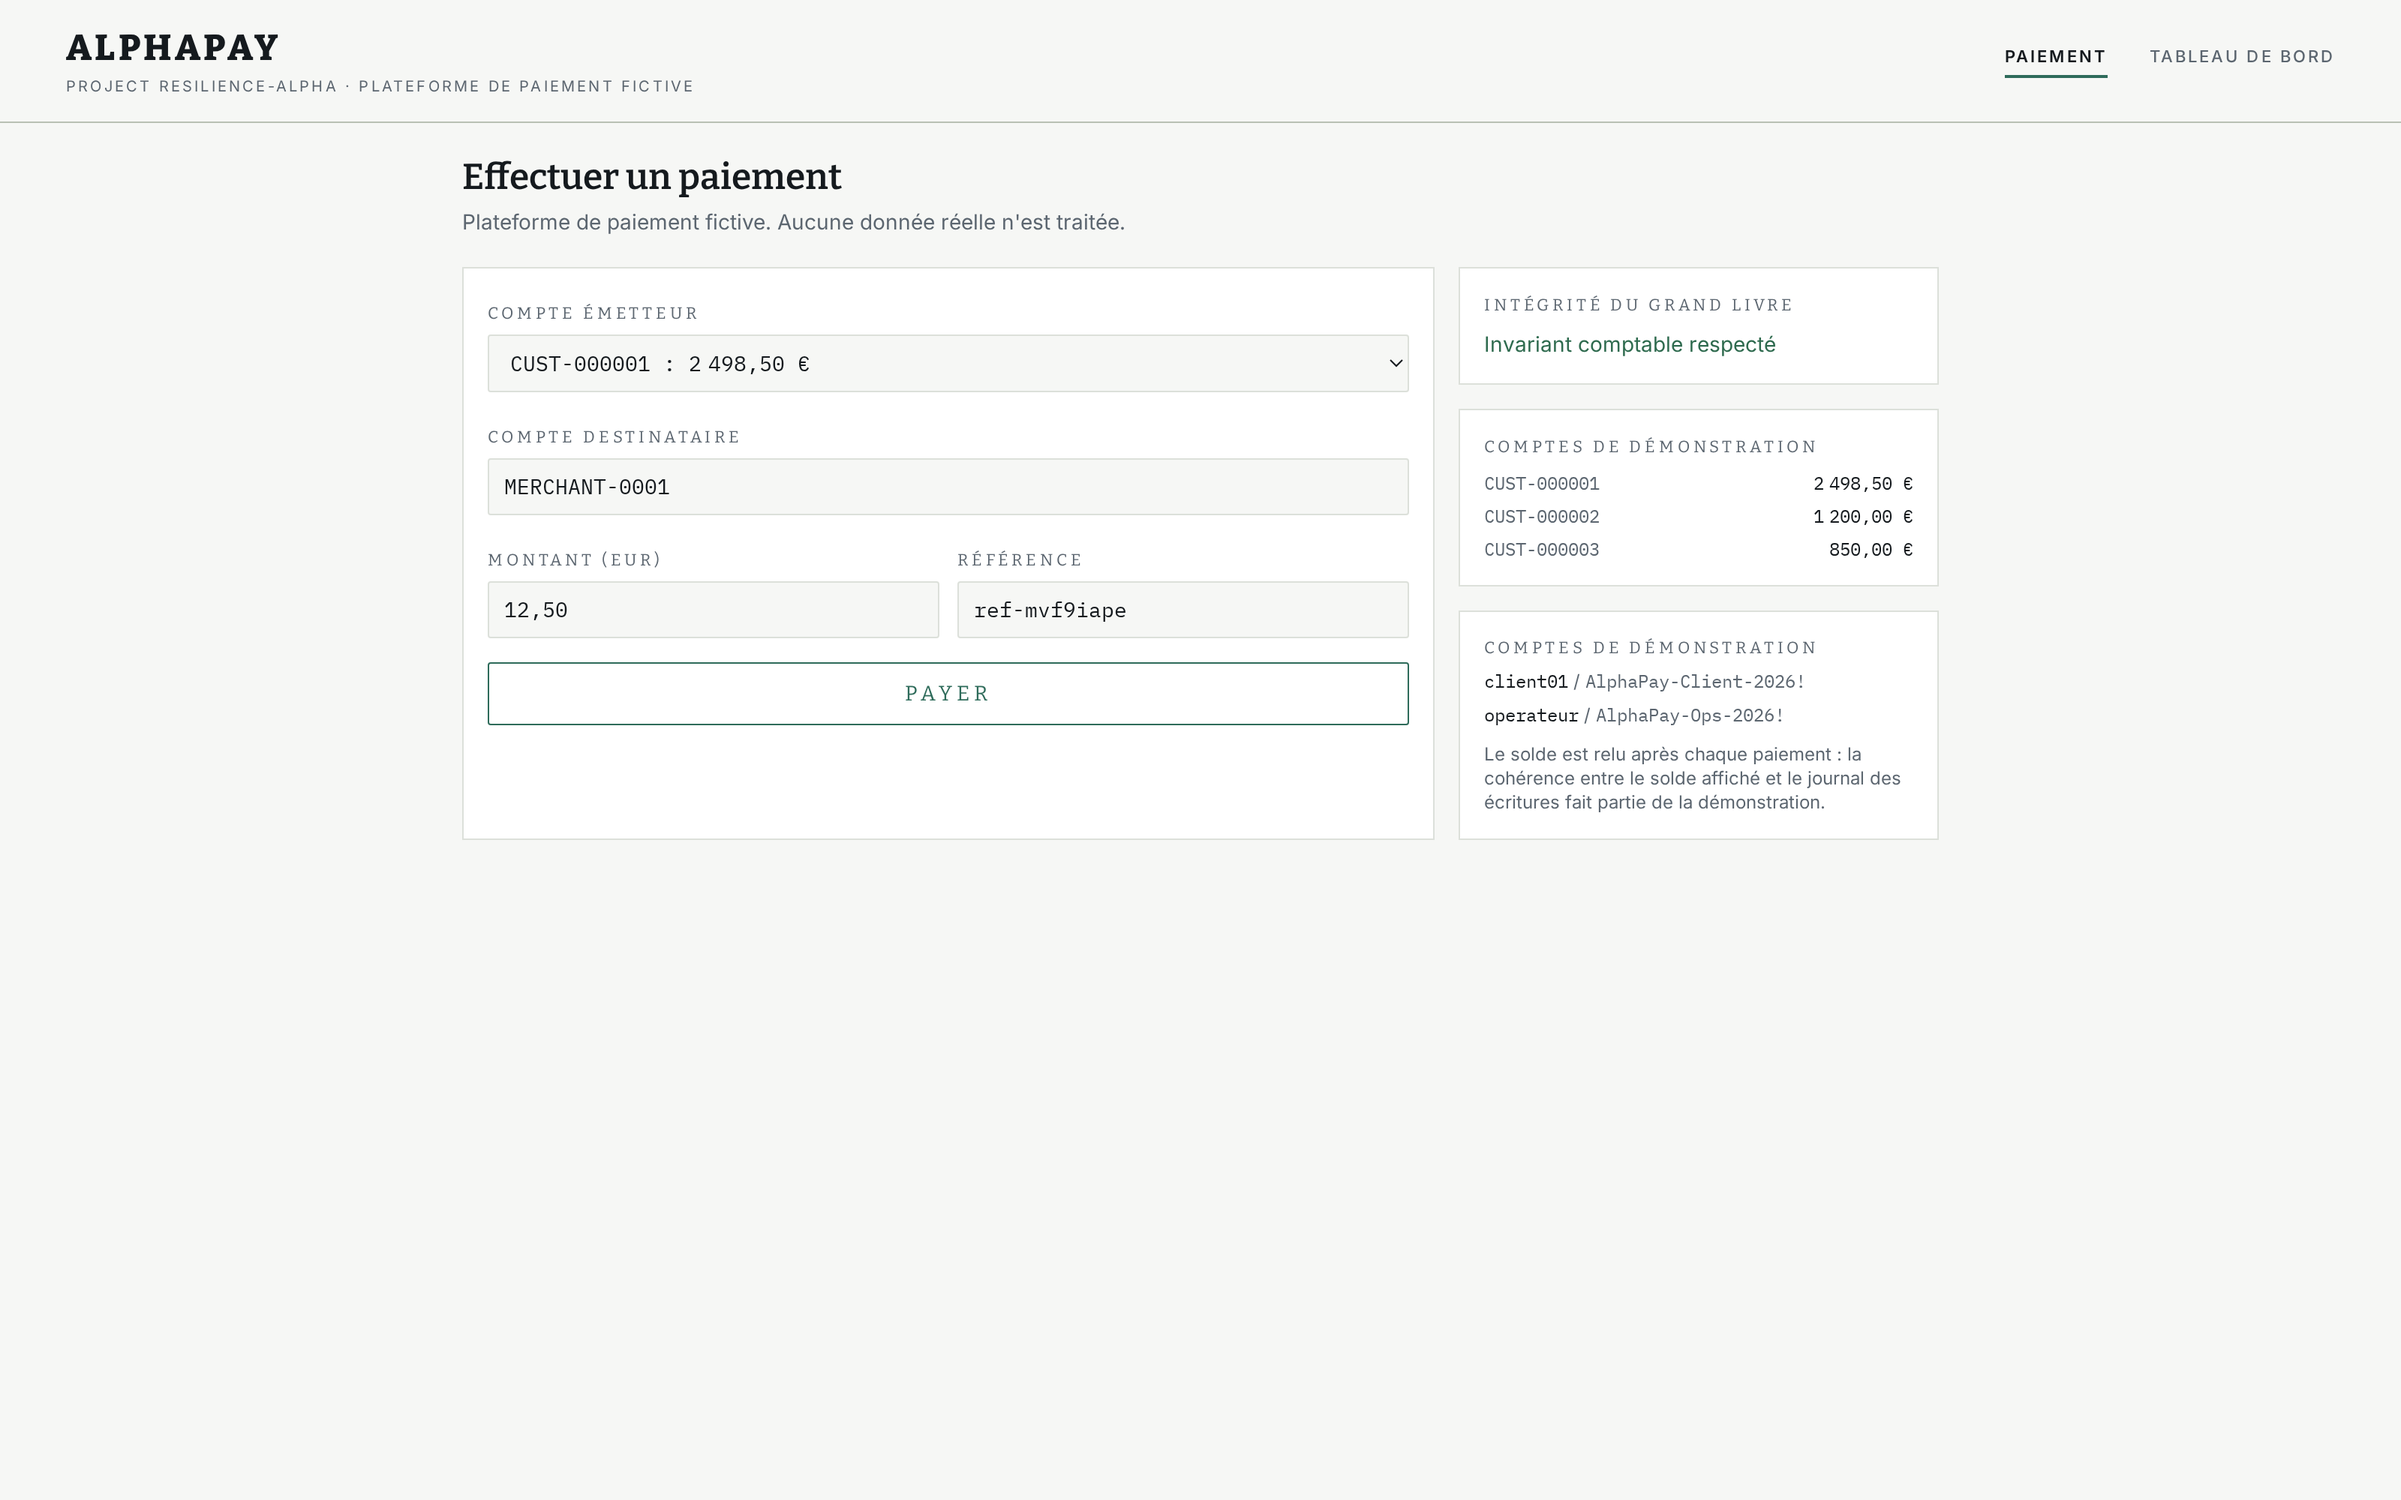
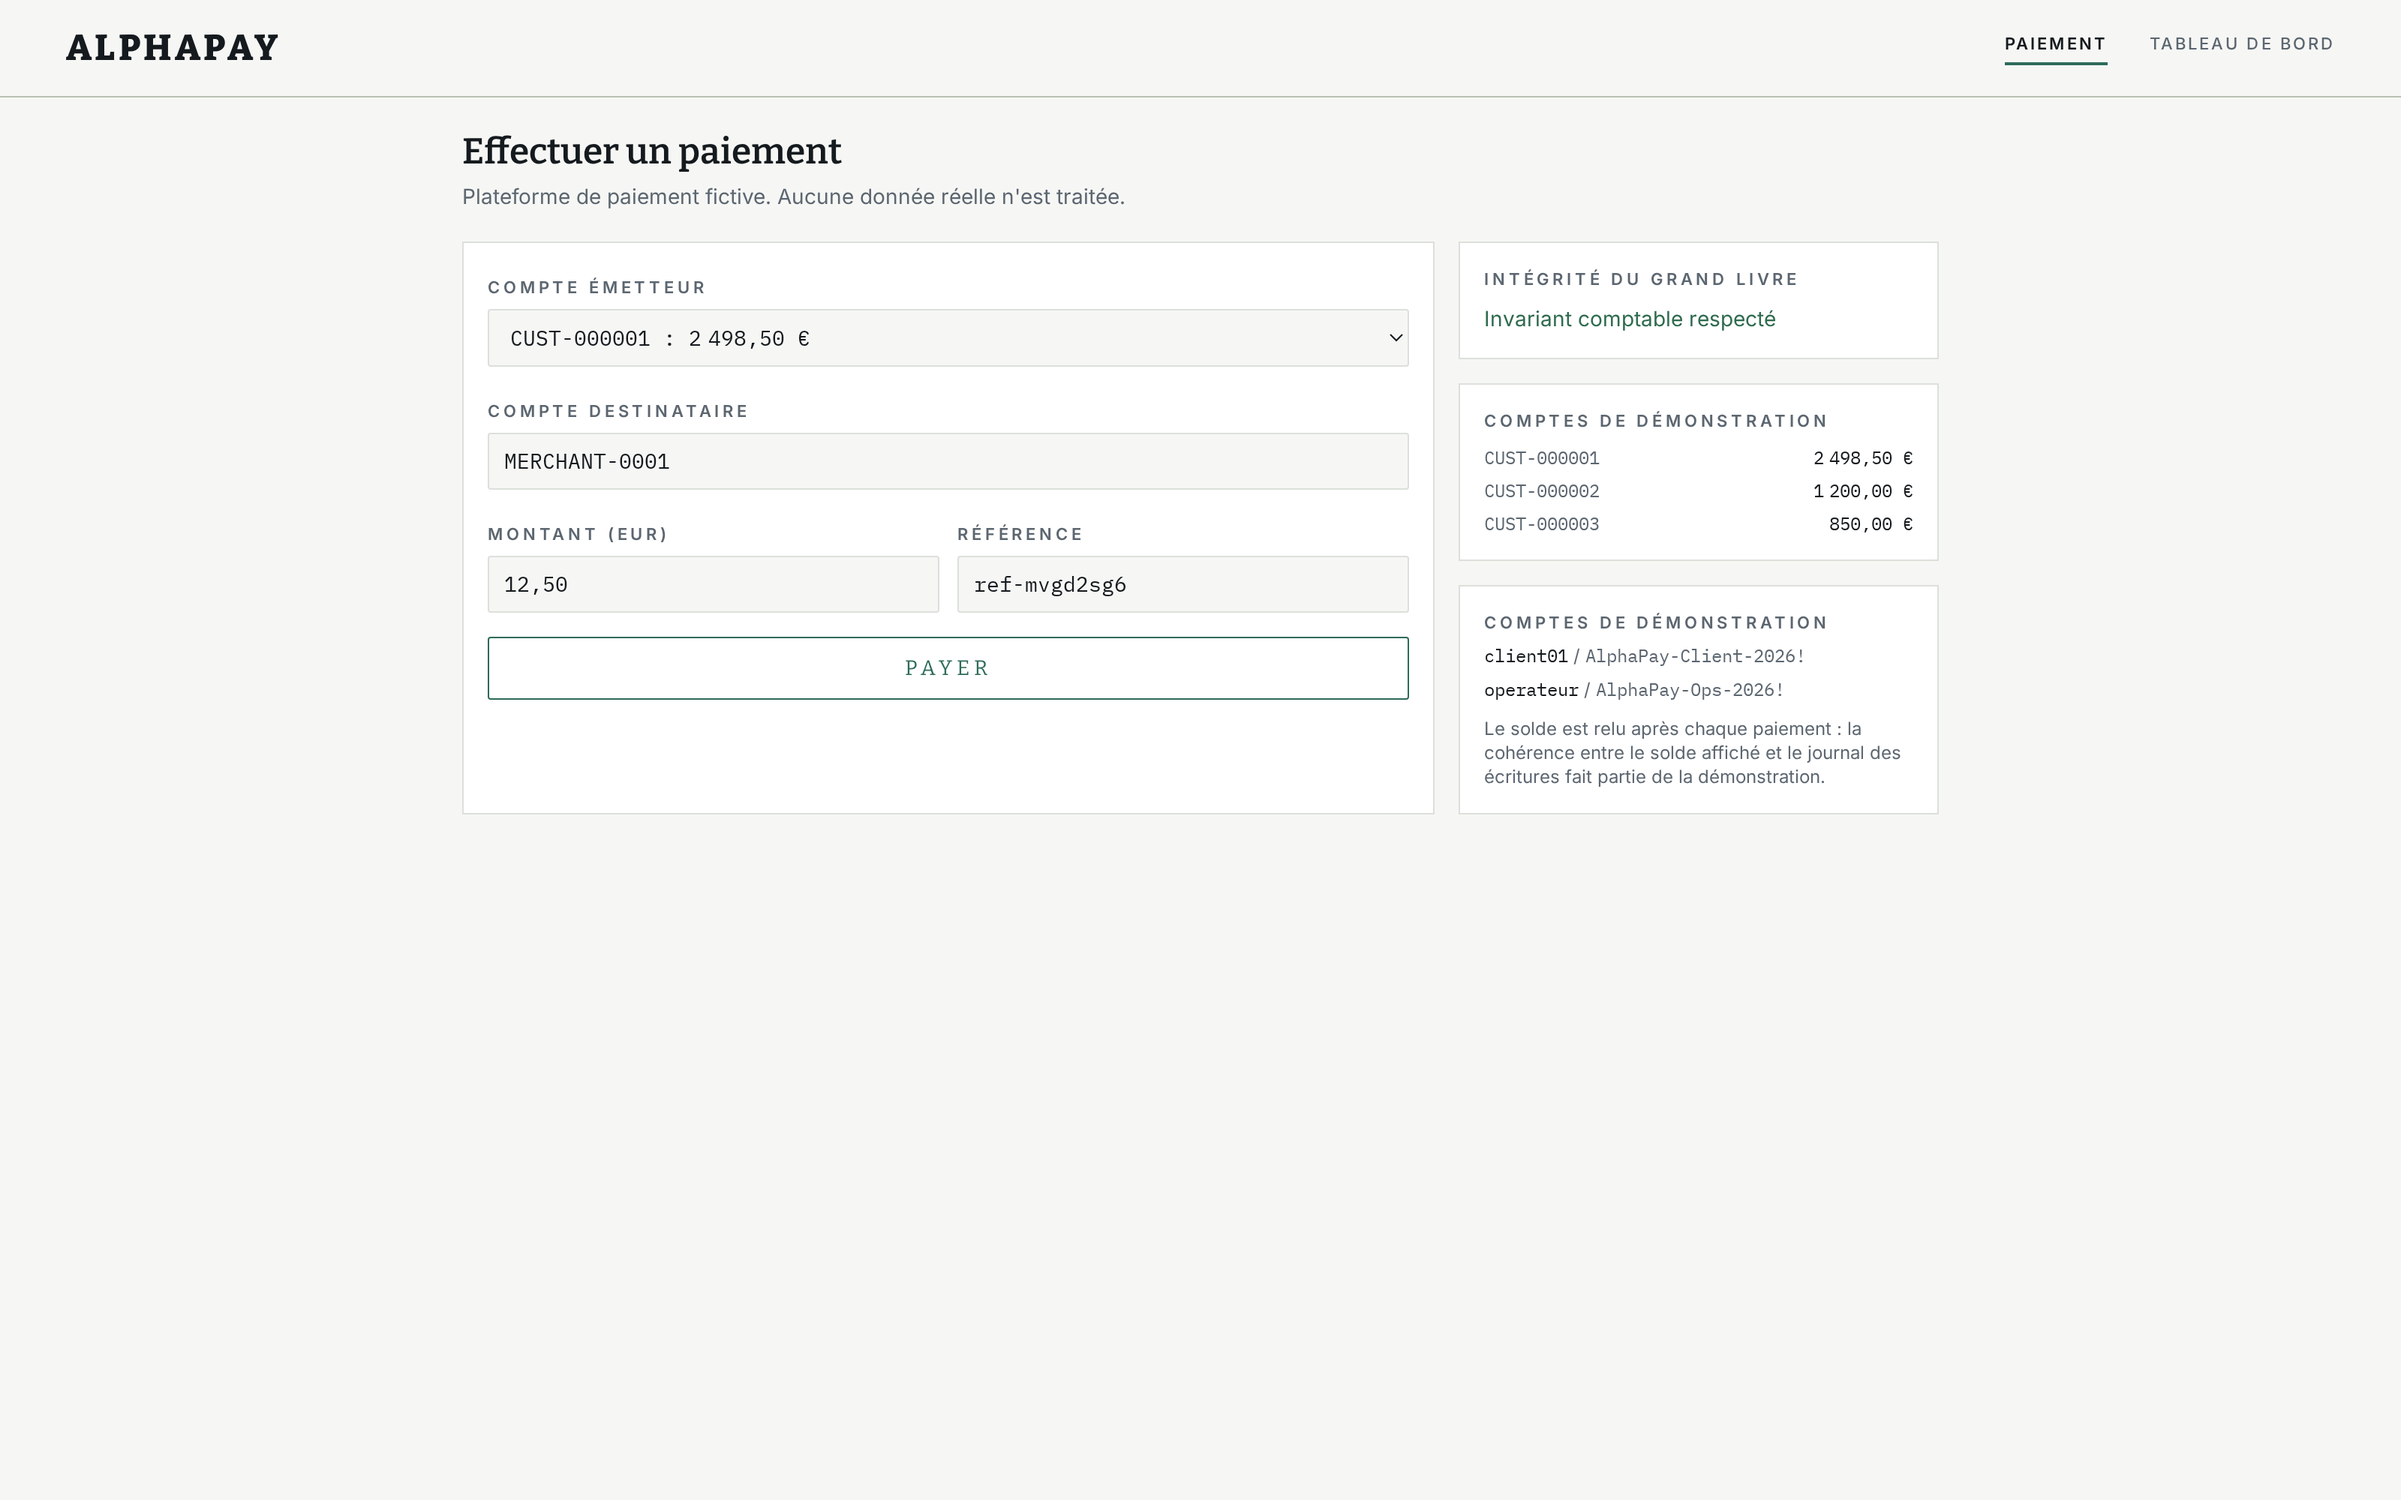
Front aligne sur la maquette : intitules en sans-serif, cadres retires, jalon en losange, sous-titre supprime

diff --git a/frontend/src/components/RecorderStrip.tsx b/frontend/src/components/RecorderStrip.tsx
@@ -45,10 +45,10 @@ export default function RecorderStrip({
   const utiles = evenements.filter((e) => e.kind in JALONS_REMARQUABLES);
   if (incident === null && utiles.length === 0) {
     return (
-      <section className="carte">
-        <div className="carte-entete">
+      <section className="bloc gap-2">
+        <div className="bloc-titre">
           <span className="etiquette">Bande-enregistreur</span>
-          <span className="text-xs text-ink-dim">aucun incident enregistré</span>
+          <span className="font-mono text-[0.625rem] text-ink-dim">aucun incident enregistré</span>
         </div>
         <div className="h-[132px] flex items-center justify-center text-sm text-ink-dim">
           La chronologie apparaîtra ici dès le premier signalement.
@@ -73,10 +73,10 @@ export default function RecorderStrip({
   const mttrFin = incident?.mttr_ms != null ? ouvert + incident.mttr_ms : null;
 
   return (
-    <section className="carte">
-      <div className="carte-entete">
+    <section className="bloc gap-2">
+      <div className="bloc-titre">
         <span className="etiquette">Bande-enregistreur</span>
-        <span className="text-xs text-ink-dim tabular">
+        <span className="font-mono text-[0.625rem] text-ink-dim tabular">
           {incident ? `incident ${incident.id.slice(0, 8)}` : "derniers événements"}
           {" · "}
           {utiles.length} jalons
@@ -114,7 +114,7 @@ export default function RecorderStrip({
             if (Number.isNaN(t)) return null;
             const x = position(t);
             const couleur = COULEUR_SOURCE[evenement.source] ?? "#8A9284";
-            const haut = index % 2 === 0 ? 0 : 22;
+            const haut = index % 2 === 0 ? 76 : 92;
             return (
               <div key={`${evenement.occurred_at}-${index}`}>
                 <div

diff --git a/frontend/src/index.css b/frontend/src/index.css
@@ -58,8 +58,25 @@
     font-size: clamp(2.75rem, 6vw, 5.125rem);
   }
 
+  /* --- Intitulé -------------------------------------------------------------
+     Compose en sans-serif, jamais en slab serif : dans la maquette, la
+     typographie a empattements est reservee au mot d'etat et aux grands
+     chiffres. Tous les intitulés courants sont en sans-serif. */
   .etiquette {
-    @apply font-display uppercase tracking-marque text-[0.6875rem] text-ink-dim;
+    @apply font-sans font-semibold uppercase tracking-marque text-[0.6875rem] text-ink-dim;
+  }
+
+  /* --- Bloc de feuillet -----------------------------------------------------
+     La maquette ne pose pas de cadre autour des blocs : un registre se
+     structure par le filet imprime, pas par des boites. Le cadre est reserve
+     aux deux seuls endroits ou la maquette en dessine un : la carte d'etat et
+     le panneau de l'assistant. */
+  .bloc {
+    @apply flex flex-col min-h-0;
+  }
+
+  .bloc-titre {
+    @apply flex shrink-0 items-center justify-between gap-3;
   }
 
   /* --- Feuille : la surface de base ----------------------------------------
@@ -100,8 +117,15 @@
     @apply relative h-[132px] w-full;
   }
 
+  /* --- Jalon de la bande-enregistreur ---------------------------------------
+     Un losange, comme sur la maquette : un carre pose sur la pointe, centre
+     sur l'axe. Le clip-path est prefere a une rotation, qui entrerait en
+     conflit avec le positionnement en pourcentage du parent. */
   .jalon {
-    @apply absolute top-0 bottom-0 w-px;
+    @apply absolute top-1/2 h-2.5 w-2.5;
+    margin-top: -5px;
+    margin-left: -5px;
+    clip-path: polygon(50% 0%, 100% 50%, 50% 100%, 0% 50%);
   }
 
   .jalon-etiq {

diff --git a/frontend/src/components/MetricBands.tsx b/frontend/src/components/MetricBands.tsx
@@ -128,13 +128,13 @@ export function PlaybookPanel({
   const etat = incident?.state ?? "·";
 
   return (
-    <section className="carte flex flex-col min-h-0">
-      <div className="carte-entete shrink-0">
-        <span className="etiquette">Playbook de reprise</span>
-        <span className="text-xs font-mono text-ink-dim">{incident?.playbook_id ?? "en attente"}</span>
+    <section className="bloc gap-2">
+      <div className="bloc-titre">
+        <span className="etiquette">Progression de la reprise</span>
+        <span className="font-mono text-[0.625rem] text-ink-dim">{incident?.playbook_id ?? "en attente"}</span>
       </div>
 
-      <div className="p-3 space-y-3 overflow-y-auto">
+      <div className="space-y-3">
         <div className="flex items-center gap-2">
           {/* `engage` distingue un playbook qui n'a rien fait d'un playbook qui
               a commencé : la barre passe alors du gris au laiton. */}

diff --git a/frontend/src/App.tsx b/frontend/src/App.tsx
@@ -40,12 +40,9 @@ export default function App() {
     <div className="flex h-full flex-col bg-base">
       <header className="shrink-0 border-b border-line-fort bg-base">
         <div className="flex items-center justify-between px-11 py-4">
-          <div className="flex flex-col gap-0.5">
+          <div className="flex flex-col">
             <span className="font-display text-2xl font-extrabold uppercase tracking-[0.1em] text-ink">
               AlphaPay
-            </span>
-            <span className="font-sans text-[0.625rem] uppercase tracking-[0.16em] text-ink-dim">
-              Project Resilience-Alpha · plateforme de paiement fictive
             </span>
           </div>
 

diff --git a/frontend/src/components/ServiceRail.tsx b/frontend/src/components/ServiceRail.tsx
@@ -44,12 +44,8 @@ export default function ServiceRail({
   if (incident?.playbook_id?.includes("A3")) concernes.add("edge");
 
   return (
-    <aside className="carte overflow-hidden flex flex-col min-h-0">
-      <div className="carte-entete shrink-0">
-        <span className="etiquette">Composants</span>
-        <span className="text-xs text-ink-dim tabular">{composants.length}</span>
-      </div>
-      <div className="overflow-y-auto">
+    <aside className="bloc shrink-0">
+      <div>
         {COLONNES.map(({ cle, libelle }) => {
           const lot = composants.filter((c) => c.colonne === cle);
           if (lot.length === 0) return null;

diff --git a/frontend/src/pages/Ops.tsx b/frontend/src/pages/Ops.tsx
@@ -104,9 +104,7 @@ export default function Ops() {
 function TitreFeuillet({ children }: { children: ReactNode }) {
   return (
     <div className="flex flex-col gap-2 border-b-2 border-line-fort pb-2">
-      <span className="font-display text-[0.5625rem] uppercase tracking-marque text-ink-dim">
-        {children}
-      </span>
+      <span className="etiquette">{children}</span>
     </div>
   );
 }

diff --git a/frontend/src/components/AssistantPanel.tsx b/frontend/src/components/AssistantPanel.tsx
@@ -30,7 +30,7 @@ export default function AssistantPanel() {
   }
 
   return (
-    <section className="carte flex flex-col min-h-0">
+    <section className="border border-line bg-surface-2 flex flex-col min-h-0">
       <div className="carte-entete shrink-0">
         <span className="etiquette">Assistant documentaire</span>
         <span className="text-[0.625rem] font-mono text-ink-dim">
